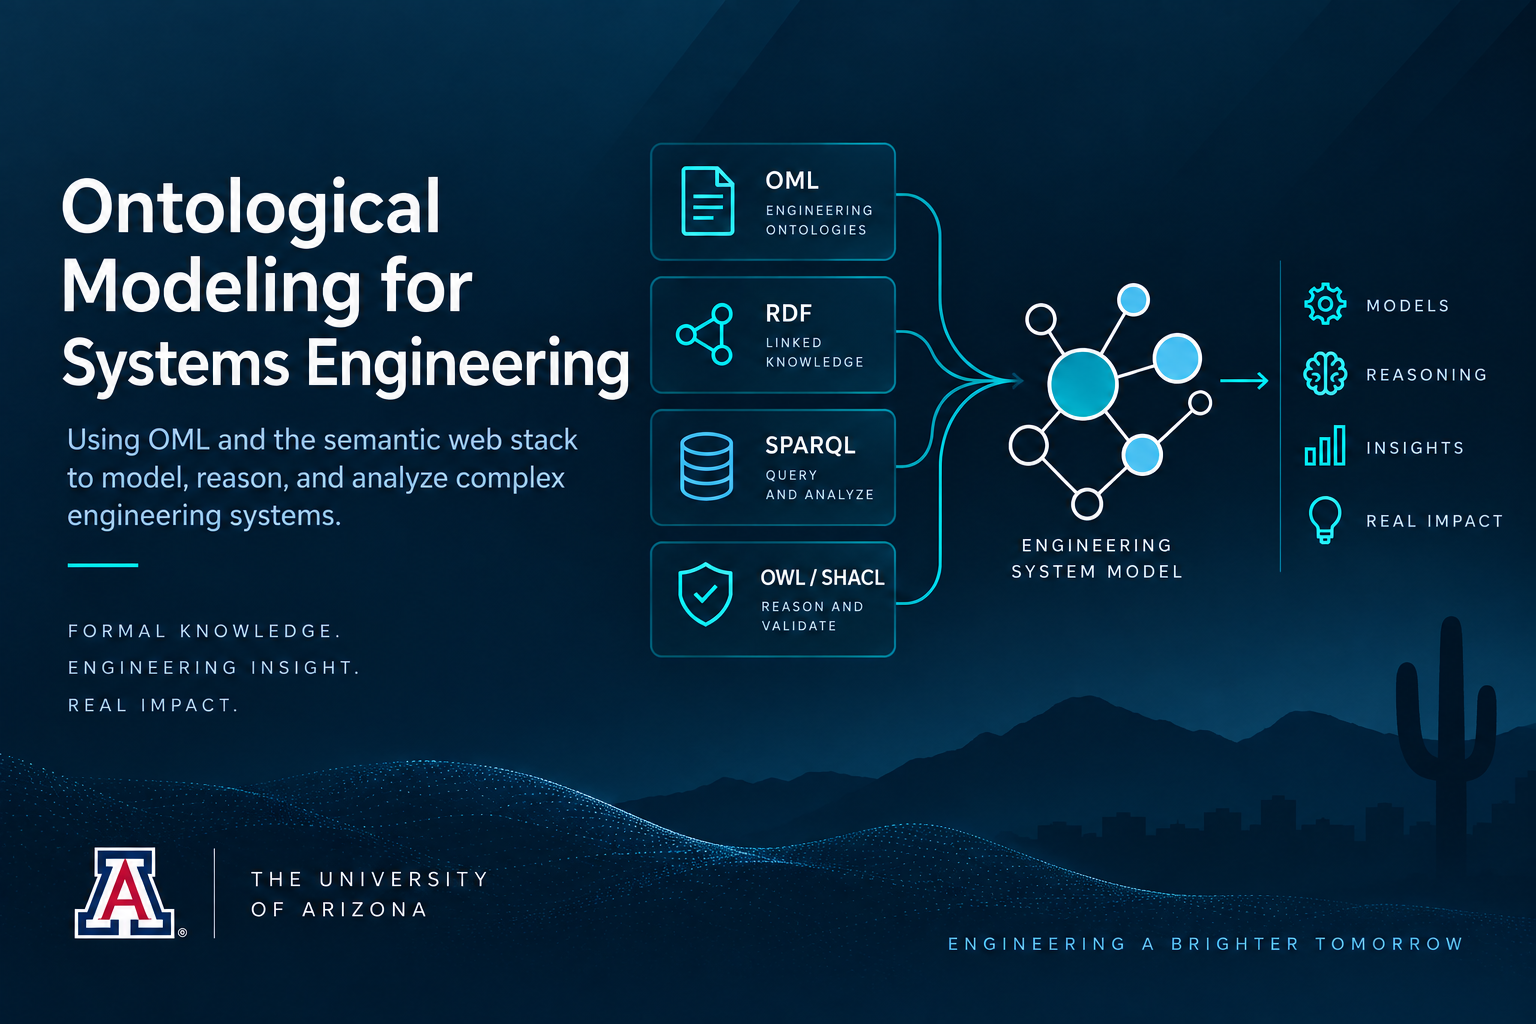
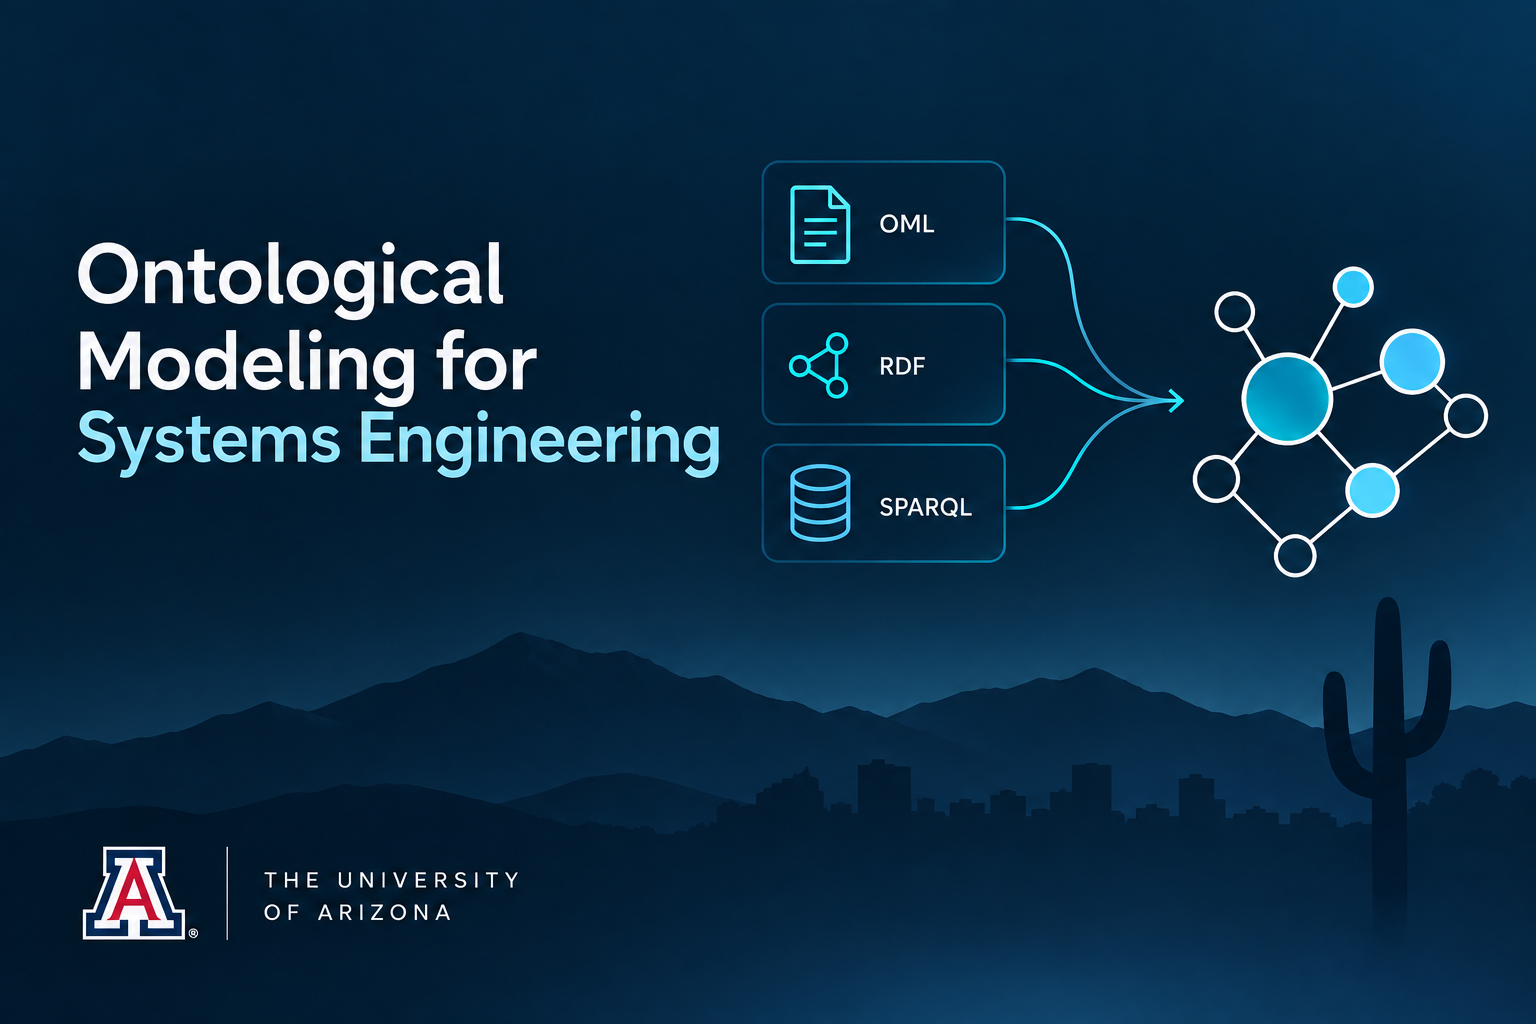
Use the revised SIE-502 course card
Swaps the Arizona news image for the cleaner three-box version (OML,
RDF, SPARQL) and drops the superseded sie502-arizona.png.

diff --git a/_news/2026-09-04-sie502-arizona.md b/_news/2026-09-04-sie502-arizona.md
@@ -3,7 +3,7 @@ layout: default
 title: "Teaching Ontological Modeling at the University of Arizona"
 date: 2026-09-04
 author: "Modelware"
-post_image: "/assets/images/sie502-arizona.png"
+post_image: "/assets/images/sie-502.png"
 header_dark: true
 description: "Modelware's founder is teaching SIE-502, Ontological Modeling for Systems Engineering, a graduate course at the University of Arizona in Fall 2026, built around OML and the semantic web stack: RDF, SPARQL, OWL, and SHACL."
 permalink: /news/sie502-arizona
@@ -15,7 +15,7 @@ permalink: /news/sie502-arizona
   <div class="container">
     <div class="row justify-content-center">
       <div class="col-lg-10 text-center">
-        <img src="{{ '/assets/images/sie502-arizona.png' | relative_url }}" alt="SIE-502: Ontological Modeling for Systems Engineering at the University of Arizona" class="img-fluid rounded shadow">
+        <img src="{{ '/assets/images/sie-502.png' | relative_url }}" alt="SIE-502: Ontological Modeling for Systems Engineering at the University of Arizona" class="img-fluid rounded shadow">
         <p class="mt-4 text-left">
           <a href="/maged-elaasar.html">Dr. Maged Elaasar</a> is teaching
           <em>SIE-502: Ontological Modeling for Systems Engineering</em> at the
